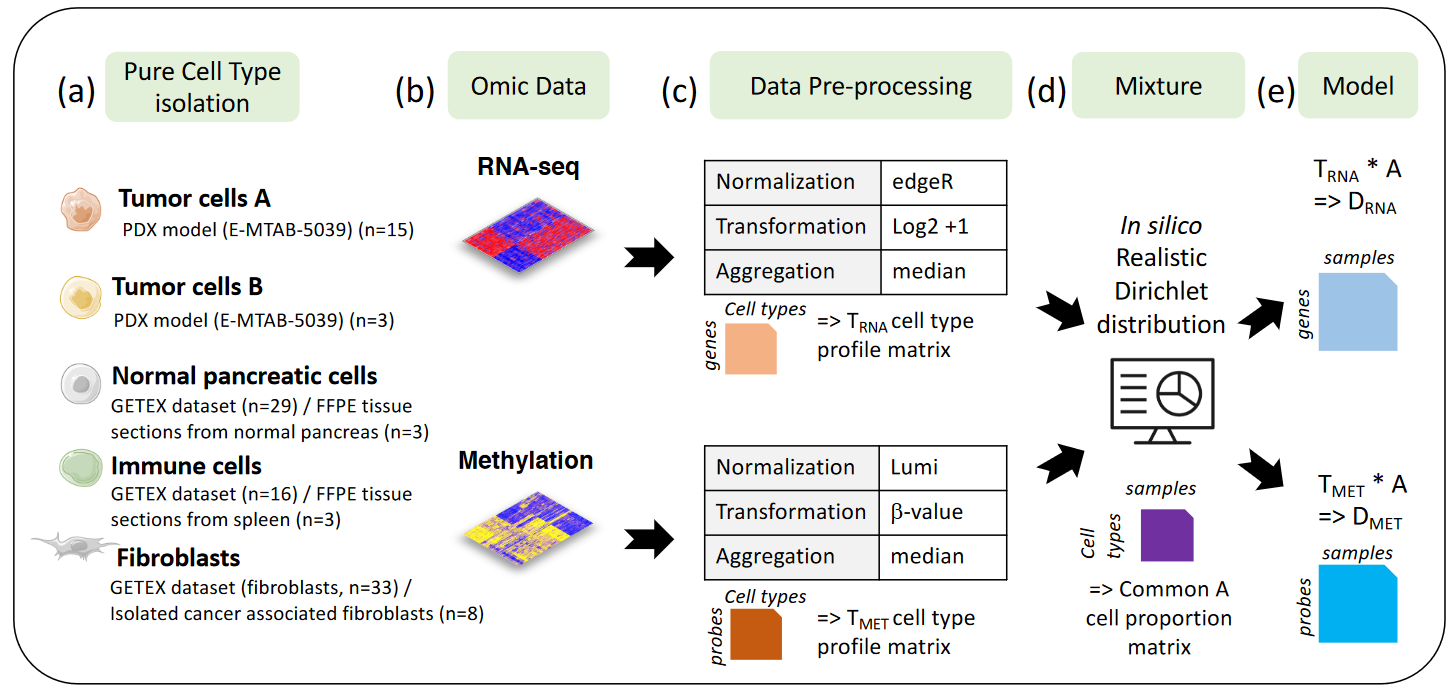
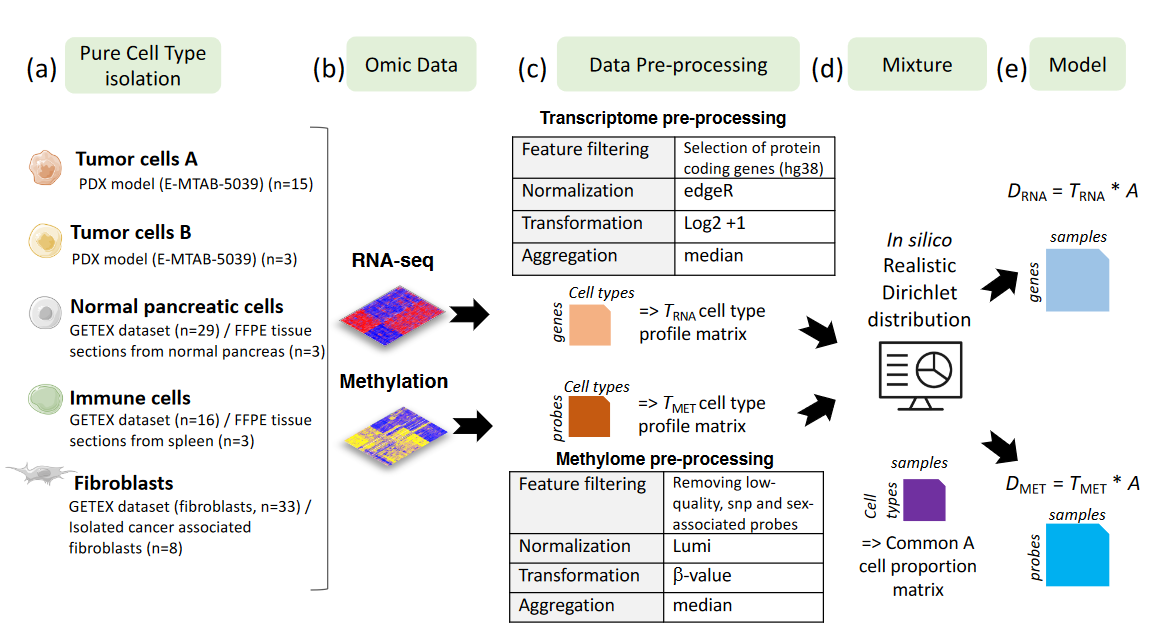
New version of the S1 figure

diff --git a/deconbench.html b/deconbench.html
@@ -362,9 +362,9 @@ $(document).ready(function () {
 <ol style="list-style-type: lower-alpha">
 <li>5 different cell populations present in pancreatic tumors were considered.</li>
 <li>Raw transcriptome and methylome profiles of these different cell populations were extracted from various sources (PDX model, tissues or isolated cells).</li>
-<li>Raw cell type profile matrices were preprocessed (Normalization, signal transformation, sample aggregation) to avoid any batch effect.</li>
+<li>Raw cell type profile matrices were preprocessed (Feature filtering, normalization, signal transformation, sample aggregation) to avoid any batch effect.</li>
 <li>In silico Dirichlet distribution have been used based on realistic proportions defined by the anatomopathologist expertise (J. Cros).</li>
-<li>Paired methylome and transcriptome of in silico mixtures from pancreatic tumors were obtained by considering D = T A, with T the cell-type profiles (5 cell types, M features) and A the cell-type proportion per patient (30 patients, 5 cell types) common between both omics.</li>
+<li>Paired methylome and transcriptome of in silico mixtures from pancreatic tumors were obtained by considering D = T A, with T the cell-type profiles (matrix of size M * K, with M the number of features and K=5 the number of cell types) and A the cell-type proportion per patient (matrix of size K * N, with N=30 the number of samples) common between both omics.</li>
 </ol>
 <p><br></p>
 </div>
